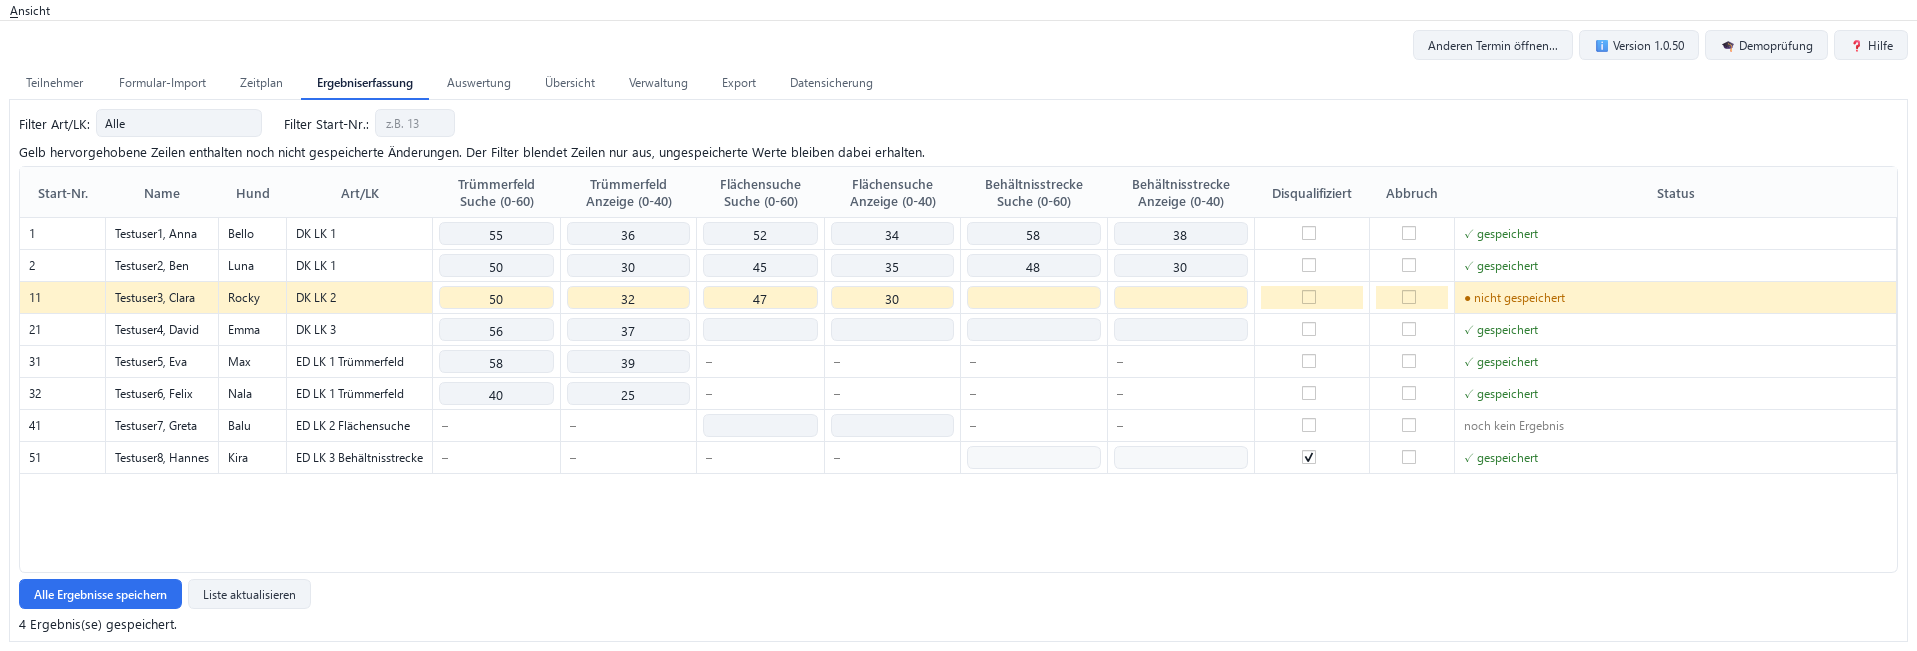
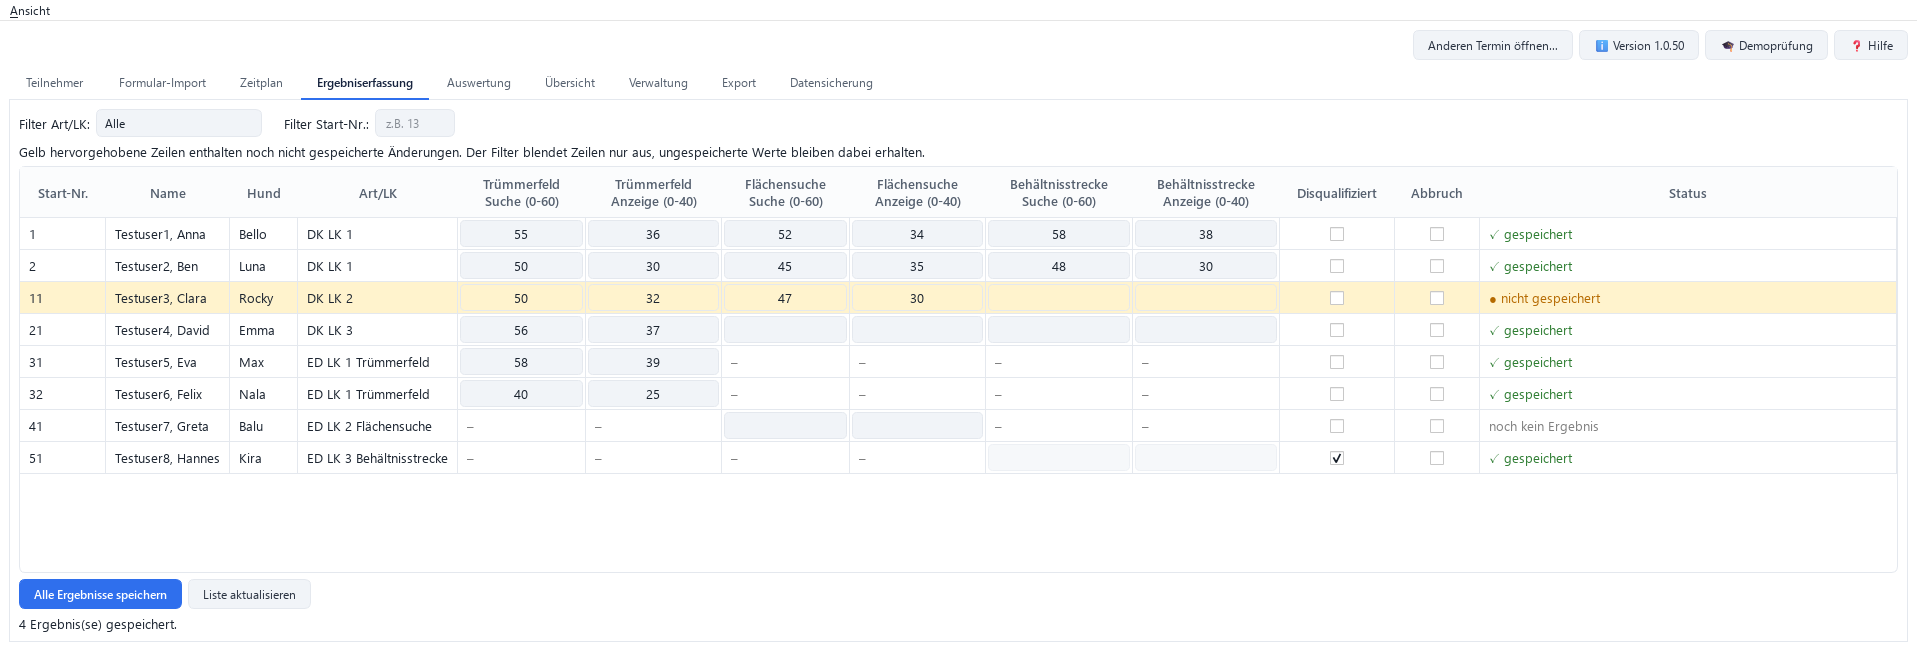
Offene Punkte O9: Darstellung der Ergebniserfassung, Handbuch und Screenshots
Punktezellen zeichnen mit der Tabellenschrift und den Design-Farben des
Eingabefeld-Stylesheets; Fokusrahmen und Demo-Markierung in der
Akzentfarbe (vorher kaum sichtbar). Entf/Rücktaste leeren eine markierte
Punktezelle wieder direkt. Handbuch beschreibt die neue Bedienung;
Screenshots der Ergebniserfassung und der Demo neu aufgenommen.

Claude-Session: https://claude.ai/code/session_012b7zd73cSpTnLoukX6iBJQ

diff --git a/app.py b/app.py
@@ -1466,19 +1466,22 @@ class _PunkteDelegate(QStyledItemDelegate):
         opt.text = ""
         style.drawControl(QStyle.CE_ItemViewItem, opt, painter, widget)  # Zellhintergrund, Auswahl
 
+        # Farben wie beim Eingabefeld im Stylesheet (desktop_darstellung, „Eingabefelder“:
+        # FLAECHE/RAND, gesperrt FLAECHE_DISABLED/RAND_DISABLED, Fokus in der Akzentfarbe -
+        # die steht in QPalette.Link; Highlight ist nur die blasse Auswahlfarbe).
         aktiv = bool(index.flags() & Qt.ItemIsEnabled)
         if not aktiv:
-            fuellung = opt.palette.color(QPalette.Disabled, QPalette.Window)
+            fuellung = _farbe("FLAECHE_DISABLED")
         elif index.data(_UNGESPEICHERT_ROLLE):
             fuellung = _farbe("ungespeichert_bg")
         else:
-            fuellung = opt.palette.color(QPalette.Base)
+            fuellung = _farbe("FLAECHE")
         if index.data(_ZU_HOCH_ROLLE):
             stift = QPen(_farbe("fehler"), 2)
         elif opt.state & QStyle.State_HasFocus:
-            stift = QPen(opt.palette.color(QPalette.Highlight), 1.5)
+            stift = QPen(opt.palette.color(QPalette.Link), 2)
         else:
-            stift = QPen(opt.palette.color(QPalette.Mid), 1)
+            stift = QPen(_farbe("RAND" if aktiv else "RAND_DISABLED"), 1)
         feld = QRectF(opt.rect).adjusted(2.5, 2.5, -2.5, -2.5)
         painter.save()
         painter.setRenderHint(QPainter.Antialiasing)
@@ -1486,6 +1489,7 @@ class _PunkteDelegate(QStyledItemDelegate):
         painter.setBrush(fuellung)
         painter.drawRoundedRect(feld, 4, 4)
         if aktiv and text:
+            painter.setFont(opt.font)  # Schrift der Tabelle wie in den Info-Spalten
             painter.setPen(opt.palette.color(QPalette.Text))
             painter.drawText(feld, Qt.AlignCenter, text)
         painter.restore()
@@ -1551,6 +1555,15 @@ class _ErgebnisTabelle(QTableWidget):
         if event.key() in (Qt.Key_Tab, Qt.Key_Backtab) and event.modifiers() & Qt.ControlModifier:
             event.ignore()  # Strg+Tab: Reiter wechseln wie vor O8
             return
+        if (event.key() in (Qt.Key_Delete, Qt.Key_Backspace) and not event.modifiers()
+                and self.state() != QAbstractItemView.State.EditingState):
+            # Entf/Rücktaste leeren eine markierte Punktezelle direkt - wie früher im
+            # Eingabefeld (Verifikation O9).
+            item = self.currentItem()
+            if item is not None and item.flags() & Qt.ItemIsEditable and item.flags() & Qt.ItemIsEnabled:
+                item.setText("")
+                event.accept()
+                return
         super().keyPressEvent(event)
 
     def moveCursor(self, aktion, modifiers):  # noqa: N802

diff --git a/desktop_darstellung.py b/desktop_darstellung.py
@@ -309,7 +309,9 @@ def _haken_bild_bereitstellen() -> None:
 # @@...@@-Platzhalter in _QSS_TEMPLATE; "hell" entspricht bit-für-bit dem bisherigen
 # Aussehen (siehe test_theme.py). Die Kleinbuchstaben-Farbschlüssel (ok, warnung, fehler,
 # gedaempft, ungespeichert_bg, zeile_bg) sind semantische Farben für Stellen, an denen der
-# Code selbst färbt (Tabellenzellen, HTML-Labels) - abgerufen über _farbe(); fehler und
+# Code selbst färbt (Tabellenzellen, HTML-Labels) - abgerufen über _farbe(), das seit
+# O9 (19.10.2026) auch die Großbuchstaben-Schlüssel liefert (FLAECHE, RAND …, für die selbst
+# gezeichneten Punktezellen der Ergebniserfassung); fehler und
 # zeile_bg fließen außerdem in _design_palette() ein. "anzeigename" ist der Menütext.
 # "dunkel": True schaltet zusätzlich den Fusion-Stil ein, fordert das dunkle Farbschema an
 # und mischt die Auswahlfarbe aus Akzent und Hintergrund (siehe _darstellung_anwenden()).
@@ -474,8 +476,9 @@ def _erzeuge_qss(theme_name: str, design_name: str = _DESIGN_DEFAULT) -> str:
 
 
 def _farbe(name: str) -> QColor:
-    """Semantische Farbe (ok/warnung/fehler/gedaempft/ungespeichert_bg/zeile_bg) des
-    aktiven Hintergrund-Designs - für Stellen, an denen der Code selbst färbt."""
+    """Farbe des aktiven Hintergrund-Designs - semantisch (ok/warnung/fehler/gedaempft/
+    ungespeichert_bg/zeile_bg) oder ein Stylesheet-Schlüssel (FLAECHE, RAND, …) - für
+    Stellen, an denen der Code selbst färbt."""
     return QColor(_DESIGNS[_aktives_design][name])
 
 

diff --git a/test_app_gui.py b/test_app_gui.py
@@ -6573,6 +6573,25 @@ def test_ergebnis_strg_tab_wechselt_den_reiter(qtbot, termin):
     assert fenster._tabs.currentIndex() != index_vorher
 
 
+def test_ergebnis_entf_leert_die_markierte_punktezelle(qtbot, conn):
+    """Verifikation O9: wie früher im Eingabefeld leert Entf/Rücktaste die Zelle direkt."""
+    tid = _teilnehmer_anlegen(conn, disziplin="Flächensuche")
+    eintragen_ergebnis(conn, tid, "Flächensuche", 50, 30)
+    tab = _ergebnis_tab_gezeigt(qtbot, conn)
+    suche, anzeige = _ERGEBNIS_SPALTEN_JE_DISZIPLIN["Flächensuche"]
+    tab.tabelle.setCurrentCell(0, suche)
+    qtbot.keyClick(tab.tabelle, Qt.Key_Delete)
+    tab.tabelle.setCurrentCell(0, anzeige)
+    qtbot.keyClick(tab.tabelle, Qt.Key_Backspace)
+    assert tab.punkte(0, "Flächensuche") == ("", "")
+    assert tab.zeile_ungespeichert(0)
+    # Info-Zellen bleiben unberührt.
+    name = tab.tabelle.item(0, 1).text()
+    tab.tabelle.setCurrentCell(0, 1)
+    qtbot.keyClick(tab.tabelle, Qt.Key_Delete)
+    assert tab.tabelle.item(0, 1).text() == name != ""
+
+
 def test_ergebnis_leertaste_schaltet_haekchen(qtbot, conn):
     _teilnehmer_anlegen(conn, disziplin="Flächensuche")
     tab = _ergebnis_tab_gezeigt(qtbot, conn)

diff --git a/desktop_demo.py b/desktop_demo.py
@@ -174,7 +174,9 @@ class DemoMarkierung(QWidget):
     def paintEvent(self, _event) -> None:  # type: ignore[override]
         maler = QPainter(self)
         maler.setRenderHint(QPainter.Antialiasing)
-        maler.setPen(QPen(self.palette().color(QPalette.Highlight), 3))
+        # Akzentfarbe (QPalette.Link) - Highlight ist in den hellen Designs die blasse
+        # Auswahlfarbe und auf gelben Zeilen kaum zu sehen (Verifikation O9).
+        maler.setPen(QPen(self.palette().color(QPalette.Link), 3))
         maler.setBrush(Qt.NoBrush)
         maler.drawRoundedRect(QRectF(self.rect()).adjusted(1.5, 1.5, -1.5, -1.5), 6, 6)
 

diff --git a/Fortschritt.md b/Fortschritt.md
@@ -7373,3 +7373,40 @@ Umsetzung nach Marcos Entscheidungen vom 18.10.2026 (Variante A).
   - `Architektur.md` ist nachgezogen.
 - **Offen für O9:** HANDBUCH (Bedienung der Tabelle), Sichtkontrolle in allen Designs,
   Screenshots.
+
+
+## 19.10.2026: O9 Ergebniserfassung, Schritt 3: Darstellung, Handbuch, Screenshots (automatische Abarbeitung)
+
+- **Sichtkontrolle:** Die neue Ergebniserfassung habe ich offscreen mit echter Schrift in Hell,
+  Sand, Dunkel und Hoher Kontrast gerendert. Dabei korrigiert:
+  - Die Ziffern in den Punktezellen waren zu klein. Der Delegate zeichnet jetzt mit der Schrift
+    der Tabelle.
+  - Die Farben der Punktezellen kommen wie beim Eingabefeld-Stylesheet aus dem Design:
+    FLAECHE/RAND, gesperrt FLAECHE_DISABLED/RAND_DISABLED. `_farbe()` liefert dafür auch die
+    Großbuchstaben-Schlüssel; Kommentar und Docstring in `desktop_darstellung.py` sind angepasst.
+  - Fokusrahmen (2 px) und Demo-Markierung nehmen jetzt die Akzentfarbe (`QPalette.Link`).
+    `QPalette.Highlight` ist in den hellen Designs nur die blasse Auswahlfarbe. Damit war die
+    aktuelle Zelle kaum zu sehen und die Demo-Markierung auf gelben Zeilen fast unsichtbar (das
+    galt schon vor O8).
+- **Entf/Rücktaste:** Sie leeren eine markierte Punktezelle wieder direkt, wie früher im
+  Eingabefeld. Das war eine kleine Lücke aus O8, die die Verifikation gefunden hat. Dazu gibt es
+  einen neuen Test.
+- **Handbuch** (Abschnitt Ergebniserfassung): neue Bedienung beschrieben:
+  - Lostippen;
+  - Doppelklick oder F2 (am Mac Enter);
+  - Enter bleibt in der Zelle;
+  - Entf leert die Zelle;
+  - Tab-Reihenfolge und Leertaste;
+  - Gelb und Rot erscheinen nach dem Übernehmen;
+  - nichts geht verloren.
+
+  Website, READMEs und die Hilfe im Programm erwähnen die alte Bedienung nicht.
+- **Screenshots neu** mit `tools/screenshots.py`: `handbuch_ergebniserfassung.png`,
+  `ergebniserfassung.png` und `handbuch_demo.png`. Die Demo-Markierung ist jetzt sichtbar.
+- **Tests:** GUI 406 grün.
+- **Verifikation (unabhängiger Subagent):** Die Punkte oben sind umgesetzt.
+- **Rückfrage an Marco** (in `aufgaben.md`): Gesperrte Punktezellen sind in Hell/Sand kaum von
+  leeren zu unterscheiden. Das war mit den alten Eingabefeldern genauso. Soll das deutlicher
+  werden?
+- **Vor dem nächsten Build** (nicht Teil des Loops): Marco sieht sich die neue Ergebniserfassung
+  am echten Windows an. Außerdem muss `docs/HANDBUCH.pdf` neu erzeugt werden.

diff --git a/Offene-Punkte-2026-10/aufgaben.md b/Offene-Punkte-2026-10/aufgaben.md
@@ -19,8 +19,8 @@ Start durch Marco:
 | O5 Schnitt 3 `desktop_zeitplan.py` | M | erledigt | fbd85fd | 1 % / 4 % → 7 % / 4 % | Unittests OK, GUI 394 grün |
 | O6 Schnitt 3b `desktop_verwaltung.py` (+ Architektur-Doku) | M | erledigt | 55d946d | 7 % / 4 % → 16 % / 5 % | Unittests OK, GUI 394 grün; Doku der Aufteilung nachgezogen |
 | O7 Ergebnis 1: Zellwert-Schnittstelle, Tests umstellen | L | erledigt | cded543 | 17 % / 5 % → 36 % / 7 % | GUI 394 grün vorher/nachher; Schnittstelle unter O7 eingetragen |
-| O8 Ergebnis 2: Items + Delegate + Tastatur | L | erledigt | (s. git log) | 37 % / 7 % → 60 % / 9 % | GUI 405 grün; Neuaufbau 1000 TN ~0,4 s |
-| O9 Ergebnis 3: Demo, Darstellung, Handbuch, Screenshots | M | offen | | | nach O8 |
+| O8 Ergebnis 2: Items + Delegate + Tastatur | L | erledigt | 54c7e69 | 37 % / 7 % → 60 % / 9 % | GUI 405 grün; Neuaufbau 1000 TN ~0,4 s |
+| O9 Ergebnis 3: Demo, Darstellung, Handbuch, Screenshots | M | erledigt | (s. git log) | 60 % / 9 % → 75 % / 10 % | GUI 406 grün; Screenshots neu; Rückfrage 4 |
 | O10 Messung Lasttest-1000 | S | offen | | | nach O9 |
 | O11 Abschluss (QS 3 Rollen, Doku, Bericht) | M | offen | | | zuletzt |
 
@@ -323,6 +323,12 @@ Stand beim Anlegen (18.10. 18:45): 5 h 56 %, 7 Tage 89 %. Reset 5 h am 18.10. um
    groß)“ da, lässt sich aber nach der Rückfrage trotzdem öffnen (sonst wäre die Rückfrage nicht
    erreichbar). Lieber „… (ungewöhnlich groß)“ ohne „nicht lesbar“? Bis zur Entscheidung bleibt
    es wie beschlossen.
+4. **O9, gesperrte Punktezellen in Hell/Sand:** Nach Disqualifiziert/Abbruch sind die Punktezellen
+   grau und leer – in den Designs Hell und Sand ist dieses Grau (FLAECHE_DISABLED) aber kaum von
+   einer leeren aktiven Zelle (FLAECHE) zu unterscheiden, in Hell sogar etwas heller. Das war mit
+   den früheren Eingabefeldern genauso (gleiche Stylesheet-Farben). Dunkel/Hoher Kontrast sind
+   deutlich. Soll die gesperrte Zelle in allen Designs sichtbar anders aussehen (z. B. dunkleres
+   Grau oder gestrichelter Rahmen)? Bis zur Entscheidung bleibt es wie bisher.
 
 ## Hinweise für den Abschlussbericht
 

diff --git a/docs/HANDBUCH.md b/docs/HANDBUCH.md
@@ -602,7 +602,17 @@ gesperrt.
 - Die Filter blenden nur aus, ungespeicherte Eingaben bleiben erhalten. **„Liste aktualisieren“**
   fragt vorher nach, wenn noch etwas ungespeichert ist.
 - Ein Klick auf einen **Spaltenkopf** sortiert nach dieser Spalte (Pfeil im Kopf), ein zweiter
-  Klick kehrt die Richtung um. Mit der **Tab-Taste** springst du von Eingabefeld zu Eingabefeld.
+  Klick kehrt die Richtung um.
+- **Eintippen:** Zelle anklicken und einfach die Zahl tippen – sie ersetzt den bisherigen Wert.
+  Zum Ändern eines Werts geht auch ein Doppelklick oder **F2** (am Mac Enter). **Enter** übernimmt
+  die Zahl und bleibt in der Zelle. **Entf** bzw. die **Rücktaste** leert die markierte Zelle.
+- Mit der **Tab-Taste** springst du zur nächsten Eingabe: Suche → Anzeige → nächste Disziplin →
+  „Disqualifiziert“ → „Abbruch“ → nächste Zeile (Umschalt+Tab zurück). Gesperrte Felder und
+  „–“ werden übersprungen. Die **Leertaste** (oder ein Klick) setzt bzw. entfernt das Häkchen bei
+  „Disqualifiziert“ und „Abbruch“.
+- Gelb bzw. der rote Rahmen bei zu hohen Punkten erscheinen, sobald du die Zelle verlässt oder
+  Enter drückst. Eine gerade getippte Zahl geht beim Speichern, Reiterwechsel oder Schließen nie
+  verloren.
 
 Beim Wechsel des **Reiters** fragt das Programm bei ungespeicherten Ergebnissen „Jetzt
 speichern?“. Bei „Nein“ bleiben sie ungespeichert in der Tabelle stehen, „Abbrechen“ bleibt in
